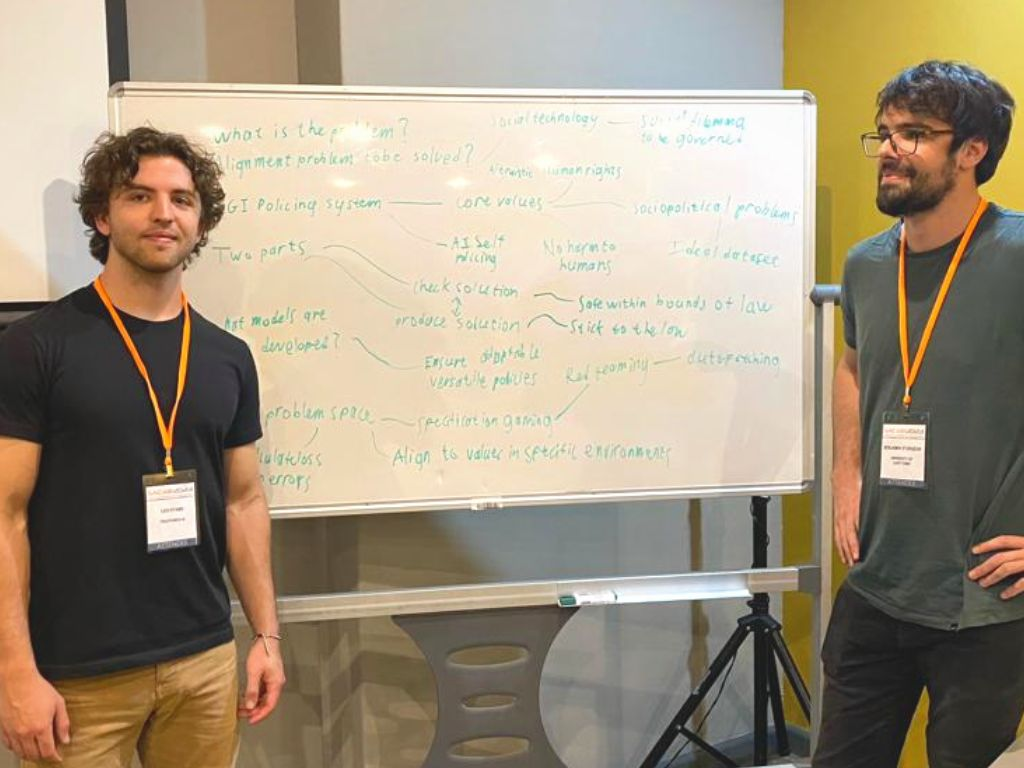
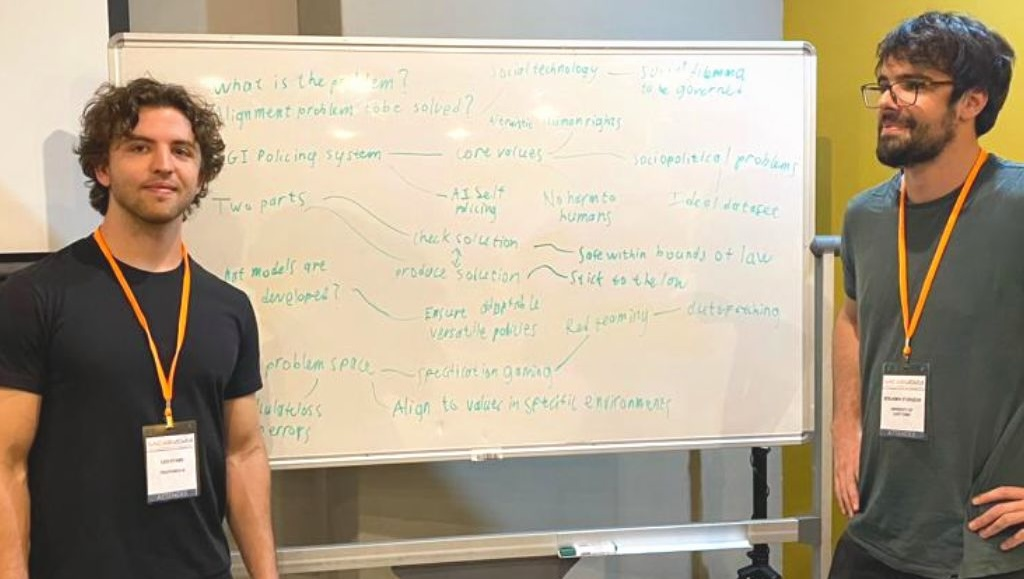
Increase top spacing on about/get-involved and widen desktop carousel (#54)
Increase top spacing on about/get-involved and widen desktop carousel

Use page-level top margin to clear header on about/get-involved

Match about/get-involved top spacing pattern to team page

Match first content block offset to team page layout

Increase desktop carousel height on about page

<!-- greptile_comment -->

<h3>Greptile Summary</h3>

This PR increases top spacing on the `/about` and `/get-involved` pages to clear the fixed header, and widens the desktop image carousel on the About page. The spacing approach iteratively converged on adding a `mt-6 md:mt-8` wrapper div inside the first section — mirroring the natural gap produced by `TeamMember.astro`'s own margins on the Team page — alongside section-level `pt-*` values.

Key changes:
- `about.astro` / `get-involved.astro`: section top padding adjusted and a `mt-6 md:mt-8` first-block wrapper added to match the Team page visual offset
- `ImageCarousel.astro`: max-width widened at `lg`/`xl` breakpoints (`max-w-7xl` / `max-w-[88rem]`)
- `CarouselSlide.astro`: image height increased at tablet and desktop breakpoints (`md:h-[26rem] lg:h-[32rem] xl:h-[36rem]`)
- `ben_and_leo_sacair_2023.jpg`: photo asset replaced
- **`get-involved.astro` desktop padding is inverted**: the section uses `pt-28 md:pt-34` but the Team page reference is `pt-34 md:pt-28`, so get-involved ends up with more top spacing than team on desktop and less on mobile — the opposite of the intent
[…]

diff --git a/agent-notes/2026-03-19-website-about-get-involved-spacing-carousel-width.md b/agent-notes/2026-03-19-website-about-get-involved-spacing-carousel-width.md
@@ -1,0 +1,186 @@
+# Session Metadata
+- Date/time: 2026-03-19 16:03 SAST
+- Branch: `website-about-get-involved-spacing-carousel-width`
+- Base branch used for comparison: `website-mobile-first-refine`
+- Current repo state (`git status --short`):
+  - `M apps/website/src/components/ImageCarousel.astro`
+  - `M apps/website/src/pages/about.astro`
+  - `M apps/website/src/pages/get-involved.astro`
+
+# Objective and Scope
+- Requested:
+  - Create a new branch on current Graphite stack.
+  - Add top padding to the top element of About and Get Involved pages (page-level only).
+  - Investigate and increase desktop horizontal size of image carousel.
+- In scope handled:
+  - Graphite branch creation.
+  - Page-level padding updates in both requested pages.
+  - Desktop width increase for About page carousel container and component container cap.
+- Out of scope:
+  - Shared component spacing system changes unrelated to these pages.
+
+# Implementation Log
+1. Created stacked branch with Graphite:
+   - Command: `gt create website-about-get-involved-spacing-carousel-width`
+2. Updated About page top section padding and desktop content width wrapper:
+   - File: `apps/website/src/pages/about.astro`
+   - Changes:
+     - Section top padding `pt-28 md:pt-22` -> `pt-32 md:pt-28`
+     - Carousel wrapper width cap `max-w-6xl` -> `max-w-6xl lg:max-w-7xl xl:max-w-[88rem]`
+3. Updated Get Involved page top section padding:
+   - File: `apps/website/src/pages/get-involved.astro`
+   - Changes:
+     - Section top padding `pt-28 md:pt-22` -> `pt-32 md:pt-28`
+4. Updated carousel component desktop width cap:
+   - File: `apps/website/src/components/ImageCarousel.astro`
+   - Changes:
+     - Root container width cap `max-w-6xl` -> `max-w-6xl lg:max-w-7xl xl:max-w-[88rem]`
+
+# Decision Log
+- Kept spacing changes at page level only for requested pages to avoid impacting shared components used elsewhere.
+- Increased carousel width only at desktop breakpoints (`lg`/`xl`) to preserve mobile and tablet behavior.
+- Adjusted both page wrapper and carousel component caps so width increase is effective (component had its own `max-w-6xl` constraint).
+
+# Validation Log
+- Command: `pnpm vitest run --config vitest.unit.config.mts`
+  - Result: failed at repo root (`ERR_PNPM_RECURSIVE_EXEC_FIRST_FAIL`, `Command "vitest" not found`).
+- Command: `pnpm test:unit`
+  - Result: failed in `apps/track-record` due to missing env var: `PAYLOAD_SECRET environment variable is required`.
+  - Notes: Website files changed only; failures are unrelated to touched files and indicate local test env precondition.
+
+# Handoff
+- Remaining risks:
+  - Visual spacing and carousel width changes were not browser-verified in this session.
+- Pending work:
+  - Optional visual QA on desktop breakpoints for About carousel and page top spacing.
+- Suggested next command(s):
+  - `pnpm --filter website dev`
+  - `pnpm test:unit` (after configuring required `PAYLOAD_SECRET` env for track-record tests)
+
+## Follow-up Update (2026-03-19 16:19 SAST)
+
+### Objective and Scope
+- User reported that top padding did not resolve header overlap.
+- Requested switch to top margin, applied at the correct page area so spacing is respected against the absolute/fixed header behavior.
+
+### Implementation Log
+1. Switched About page top offset from section padding to page-level main margin:
+   - File: `apps/website/src/pages/about.astro`
+   - Changes:
+     - `<main class="min-h-screen bg-transparent">` -> `<main class="min-h-screen bg-transparent mt-32 md:mt-28">`
+     - Removed section top padding classes from first section.
+2. Switched Get Involved page top offset from section padding to page-level main margin:
+   - File: `apps/website/src/pages/get-involved.astro`
+   - Changes:
+     - `<main class="min-h-screen">` -> `<main class="min-h-screen mt-32 md:mt-28">`
+     - Removed section top padding classes from first section.
+
+### Decision Log
+- Applied margin at the top-level page wrapper (`main`) rather than inner section so offset occurs at the page entry point below header, matching user request to avoid component-level changes.
+
+### Validation Log
+- Command: `pnpm vitest run --config vitest.unit.config.mts`
+  - Result: failed at repo root (`Command "vitest" not found`).
+- Command: `pnpm test:unit`
+  - Result: unchanged unrelated failures in `apps/track-record` due to missing `PAYLOAD_SECRET`.
+
+### Handoff
+- Recommend visual verification on `/about` and `/get-involved` in desktop/mobile viewport with current header behavior.
+
+## Follow-up Update (2026-03-19 16:28 SAST)
+
+### Objective and Scope
+- User reported spacing still mismatched vs Team page.
+- Goal: make About and Get Involved use same effective top spacing behavior as Team page.
+
+### Implementation Log
+1. Aligned Get Involved with Team spacing pattern:
+   - File: `apps/website/src/pages/get-involved.astro`
+   - Removed `mt-32 md:mt-28` from page `main`.
+   - Added section-level top padding: `pt-34 md:pt-28`.
+2. Aligned About with Team spacing pattern:
+   - File: `apps/website/src/pages/about.astro`
+   - Removed `mt-32 md:mt-28` from page `main`.
+   - Added section-level top padding: `pt-34 md:pt-28`.
+
+### Decision Log
+- Team page already renders with desired header clearance and uses section-level top padding.
+- Mirrored that pattern exactly on About/Get Involved to ensure consistent top positioning relative to nav/header.
+
+### Validation Log
+- Command: `pnpm vitest run --config vitest.unit.config.mts`
+  - Result: failed at repo root (`Command "vitest" not found`).
+- Command: `pnpm test:unit`
+  - Result: unchanged unrelated failures in `apps/track-record` due to missing `PAYLOAD_SECRET`.
+
+### Handoff
+- Next verification should be visual comparison of `/team`, `/about`, `/get-involved` at same viewport size.
+
+## Follow-up Update (2026-03-19 16:32 SAST)
+
+### Objective and Scope
+- User requested a step back to understand full layout behavior after spacing changes appeared ineffective.
+- Goal: trace the real source of visible vertical spacing under the header and fix About/Get Involved without changing shared components.
+
+### Implementation Log
+1. Reviewed full layout chain:
+   - Files inspected:
+     - `apps/website/src/layouts/Layout.astro`
+     - `apps/website/src/components/HeaderComponent.astro`
+     - `apps/website/src/styles/theme.css`
+     - `apps/website/src/pages/team.astro`
+     - `apps/website/src/components/TeamMember.astro`
+     - `apps/website/src/pages/about.astro`
+     - `apps/website/src/pages/get-involved.astro`
+     - `apps/website/src/components/GetInvolvedSection.astro`
+2. Applied page-level wrapper spacing to first visible blocks:
+   - File: `apps/website/src/pages/get-involved.astro`
+   - Change: wrapped `GetInvolvedSection` in `<div class="mt-6 md:mt-8">`.
+3. Applied matching first-block wrapper spacing on About:
+   - File: `apps/website/src/pages/about.astro`
+   - Change: wrapped the carousel block and following content card in `<div class="mt-6 md:mt-8">`.
+
+### Decision Log
+- The header/nav does not create document flow height because `.nav-shell` is `position: absolute`, so the page’s visible gap is produced by section padding plus the first visible block’s own top offset.
+- `team` looked correct because it already had both:
+  - section top padding (`pt-34 md:pt-28`)
+  - first card margin (`my-6 md:my-8`) from `TeamMember.astro`
+- Previous changes only matched the section padding, not the first-block offset, so the visible position still differed.
+- Kept the fix page-scoped by adding wrappers in page files instead of modifying `GetInvolvedSection` or `ImageCarousel`.
+
+### Validation Log
+- Command: `pnpm --filter website check-types`
+  - Result: passed.
+- Command: `pnpm --filter website lint`
+  - Result: passed.
+
+### Handoff
+- Visual check should compare the top edge of the first cream surface on `/team`, `/about`, and `/get-involved` at the same desktop breakpoint.
+
+## Follow-up Update (2026-03-19 16:40 SAST)
+
+### Objective and Scope
+- User requested a taller desktop carousel because earlier width-only changes did not materially change the rendered image area.
+
+### Implementation Log
+1. Updated the image height constraint inside the carousel slide component:
+   - File: `apps/website/src/components/CarouselSlide.astro`
+   - Change:
+     - `h-56 md:h-80` -> `h-56 md:h-[26rem] lg:h-[32rem] xl:h-[36rem]`
+
+### Decision Log
+- The actual vertical constraint was on the image element inside each slide, not on the outer carousel container.
+- Kept mobile height unchanged and increased only tablet/desktop breakpoints so the carousel gains more presence without affecting the smaller layout.
+
+### Validation Log
+- Command: `pnpm --filter website check-types`
+  - Result: passed.
+- Command: `pnpm --filter website lint`
+  - Result: passed.
+- Command: `pnpm vitest run --config vitest.unit.config.mts`
+  - Result: failed at repo root because `vitest` is not available there.
+- Command: `pnpm test:unit`
+  - Result: unchanged unrelated failures in `apps/track-record` due to missing `PAYLOAD_SECRET`.
+
+### Handoff
+- Visual check should confirm the About carousel now occupies more vertical space on desktop breakpoints (`lg` and `xl`).
